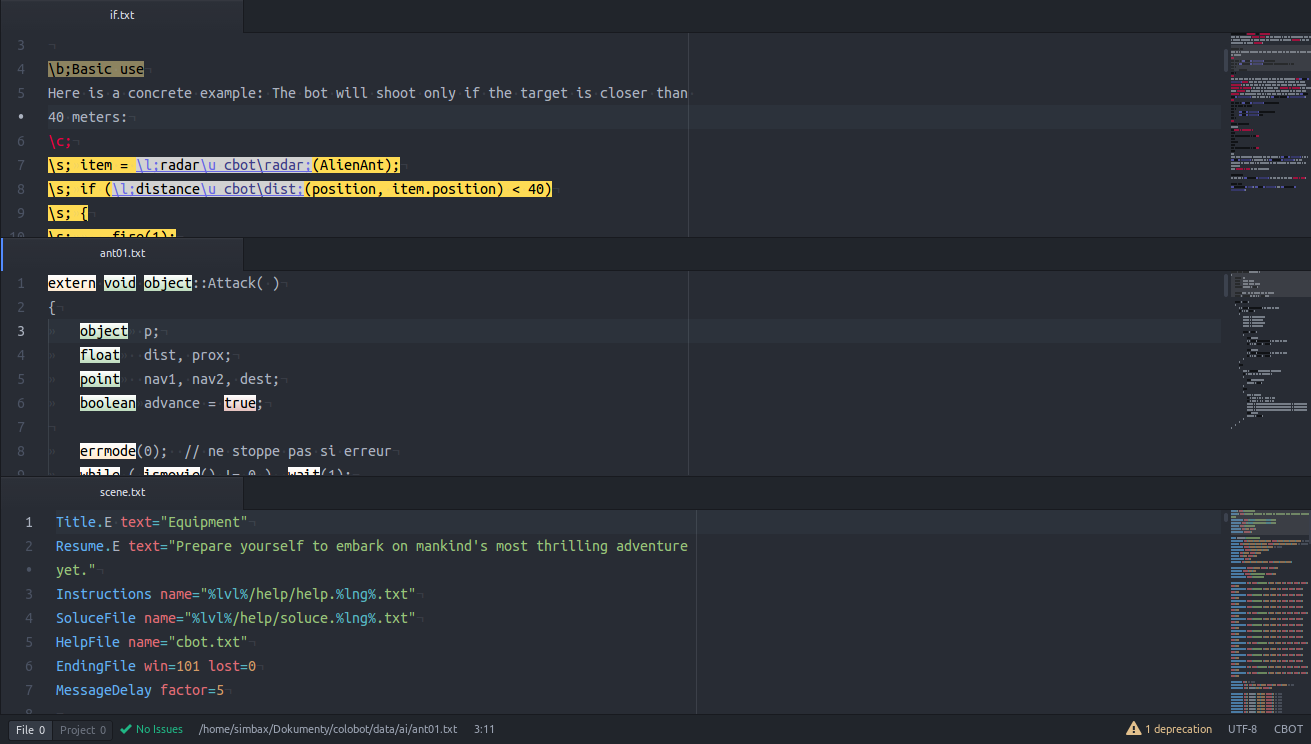
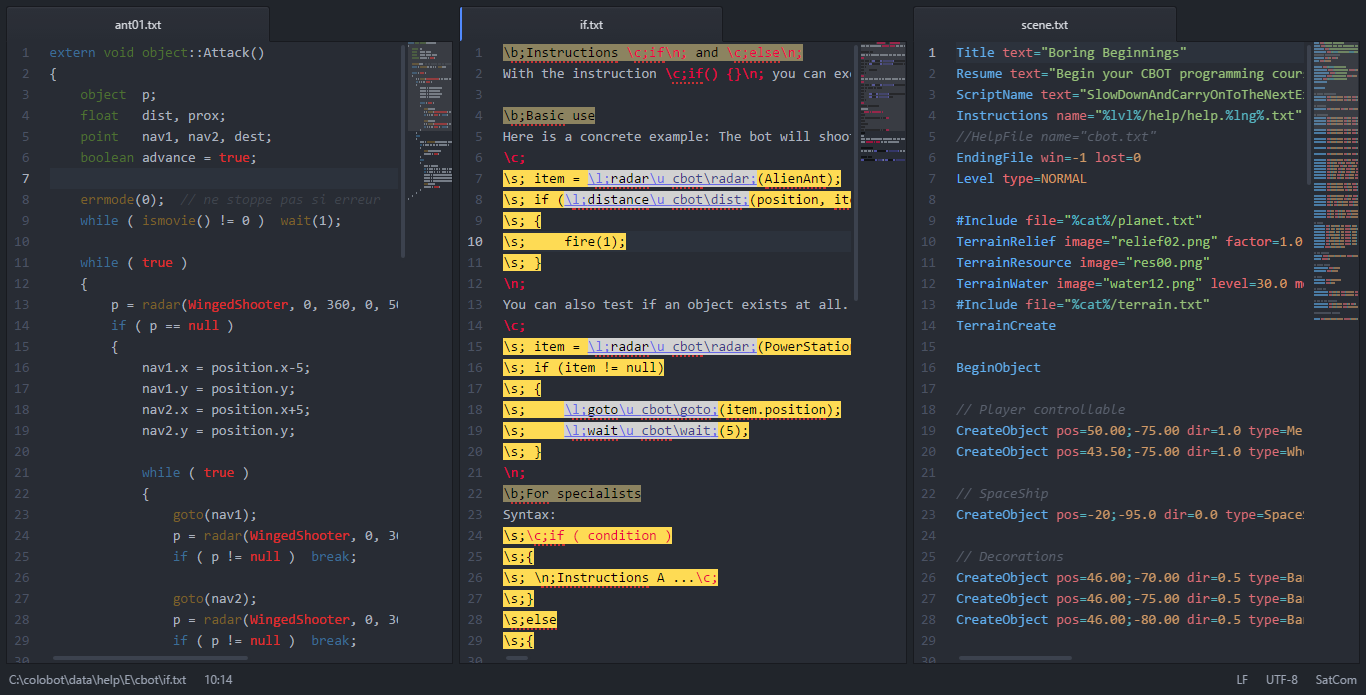
Prepare 0.2.0 release

diff --git a/CHANGELOG.md b/CHANGELOG.md
@@ -1,3 +1,6 @@
+## 0.2.0 - New CBOT syntax highlighting
+* Update CBot highlighting to match new colors in in-game editor (issue #5)
+
 ## 0.1.3 - Patch syntax highlighting
 * Add new #Include keyword
 * Fix type=Quartz not being highlighted
